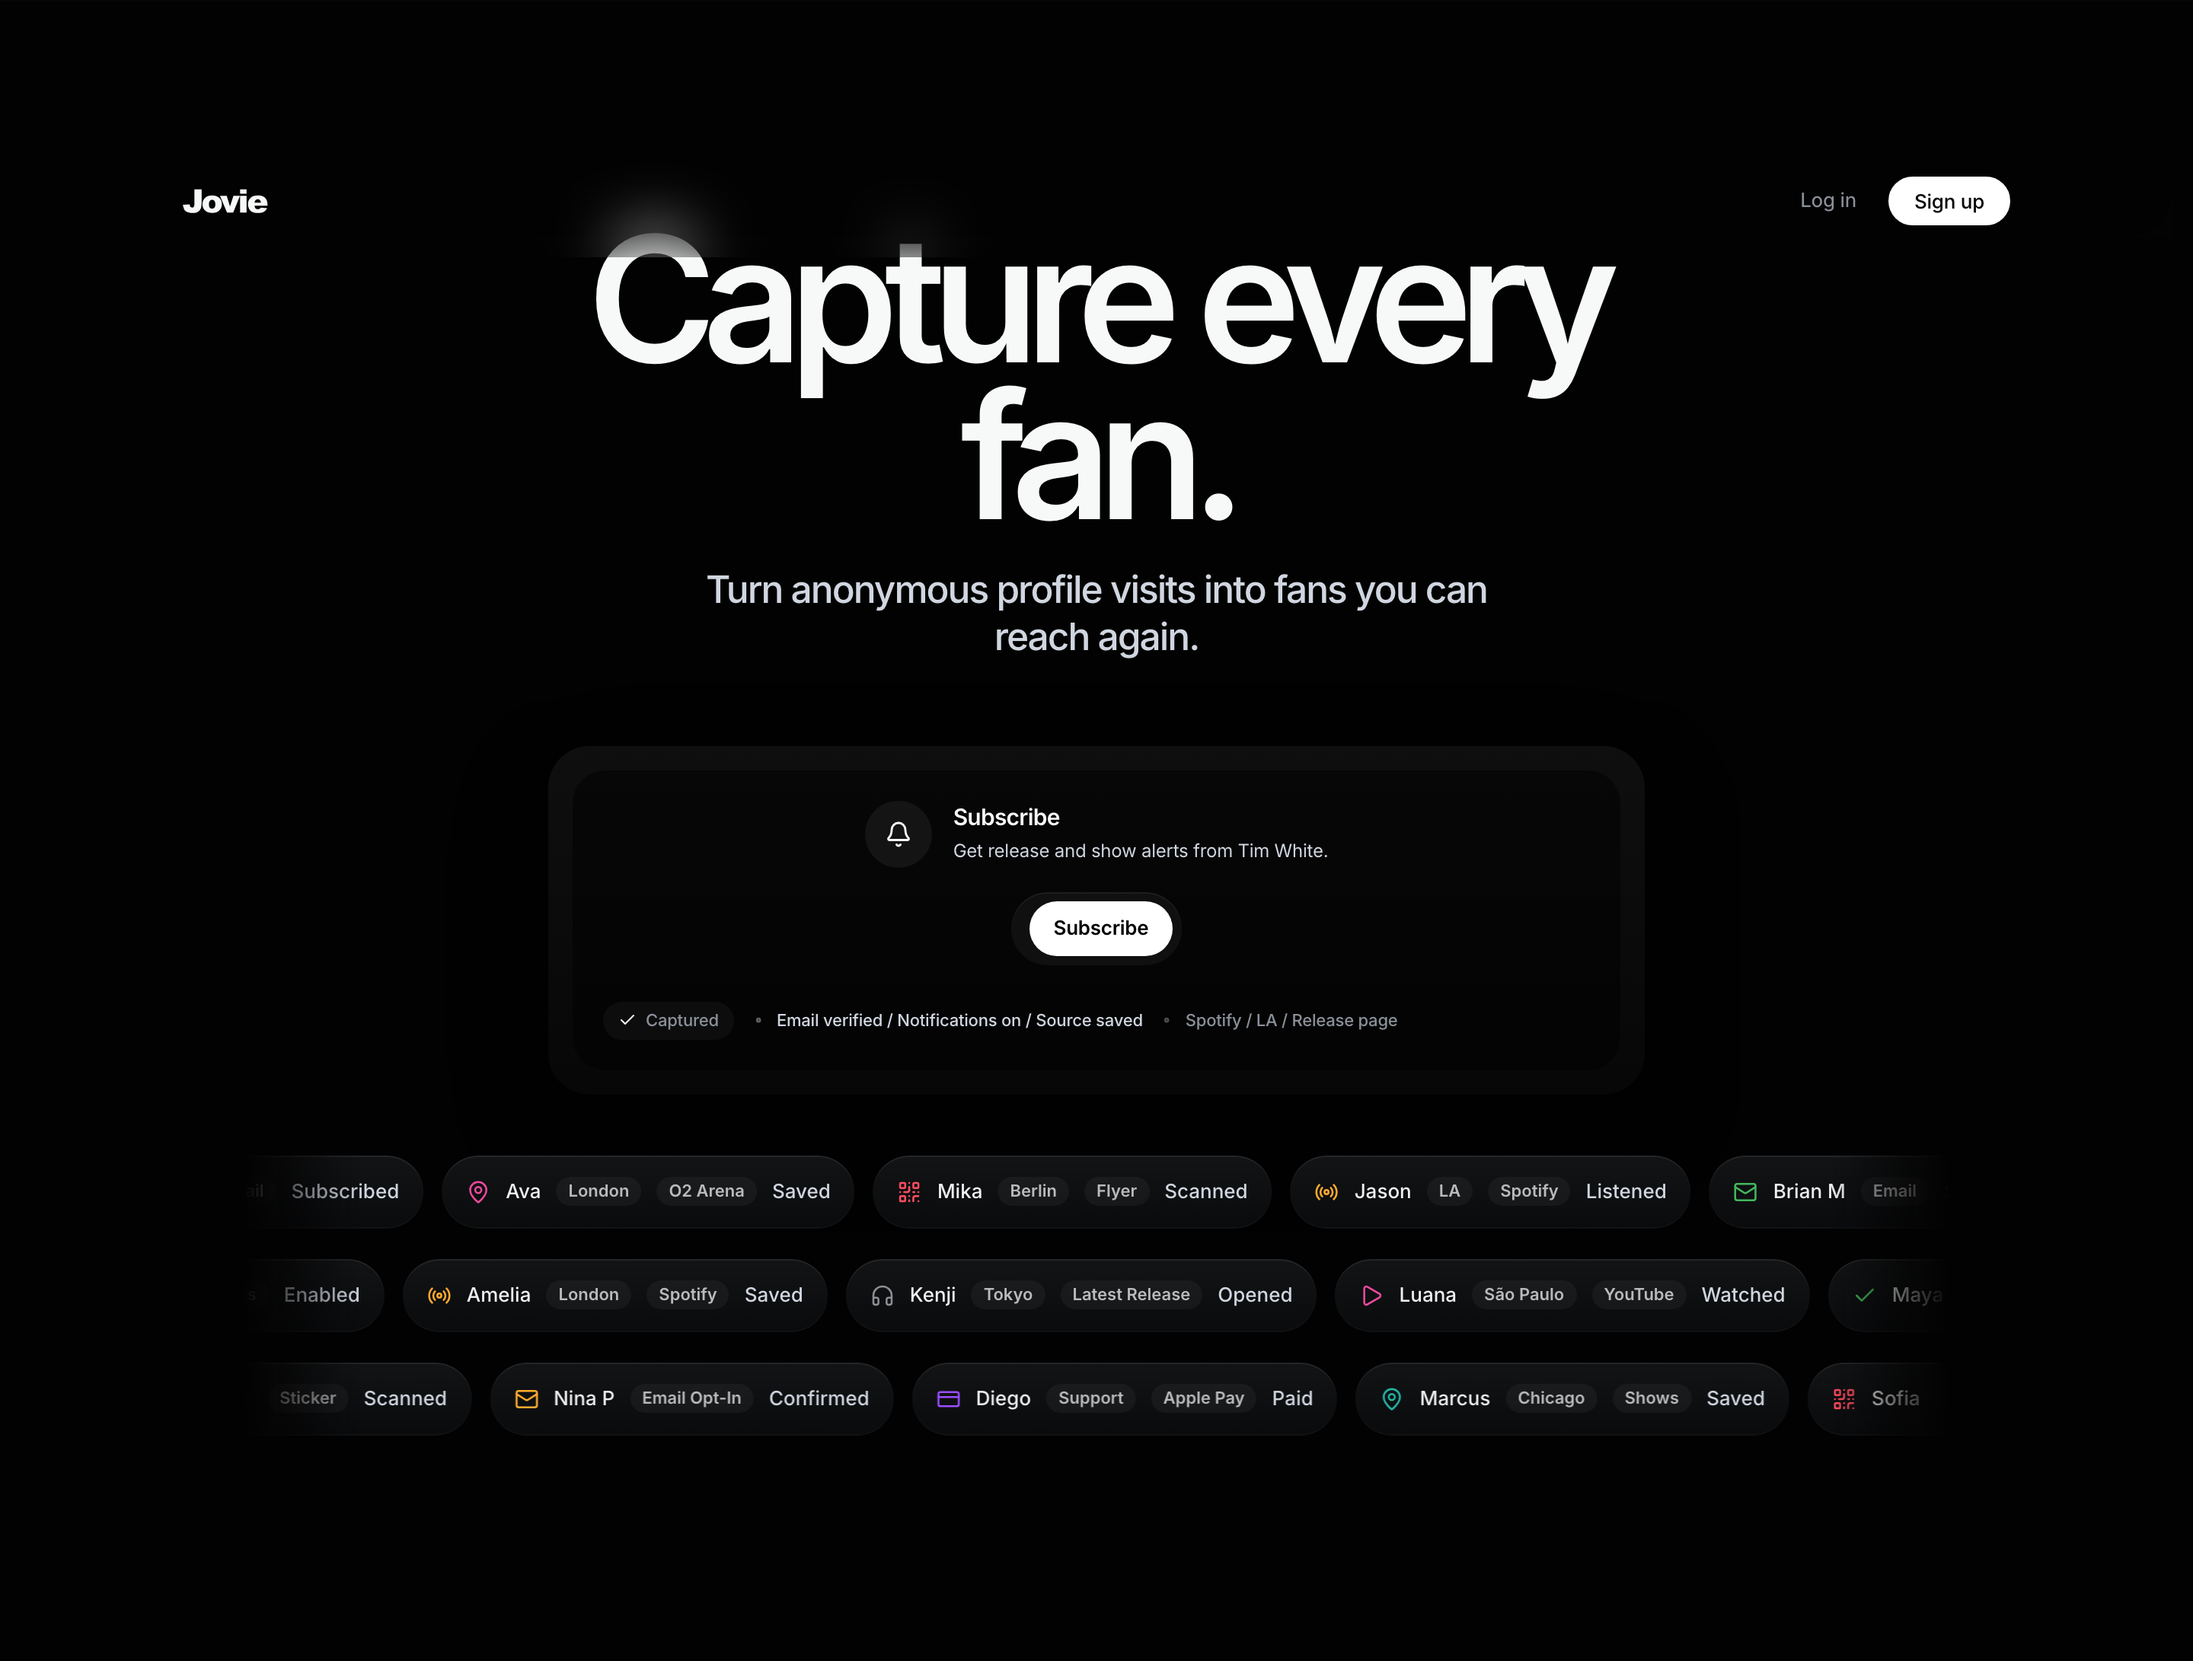
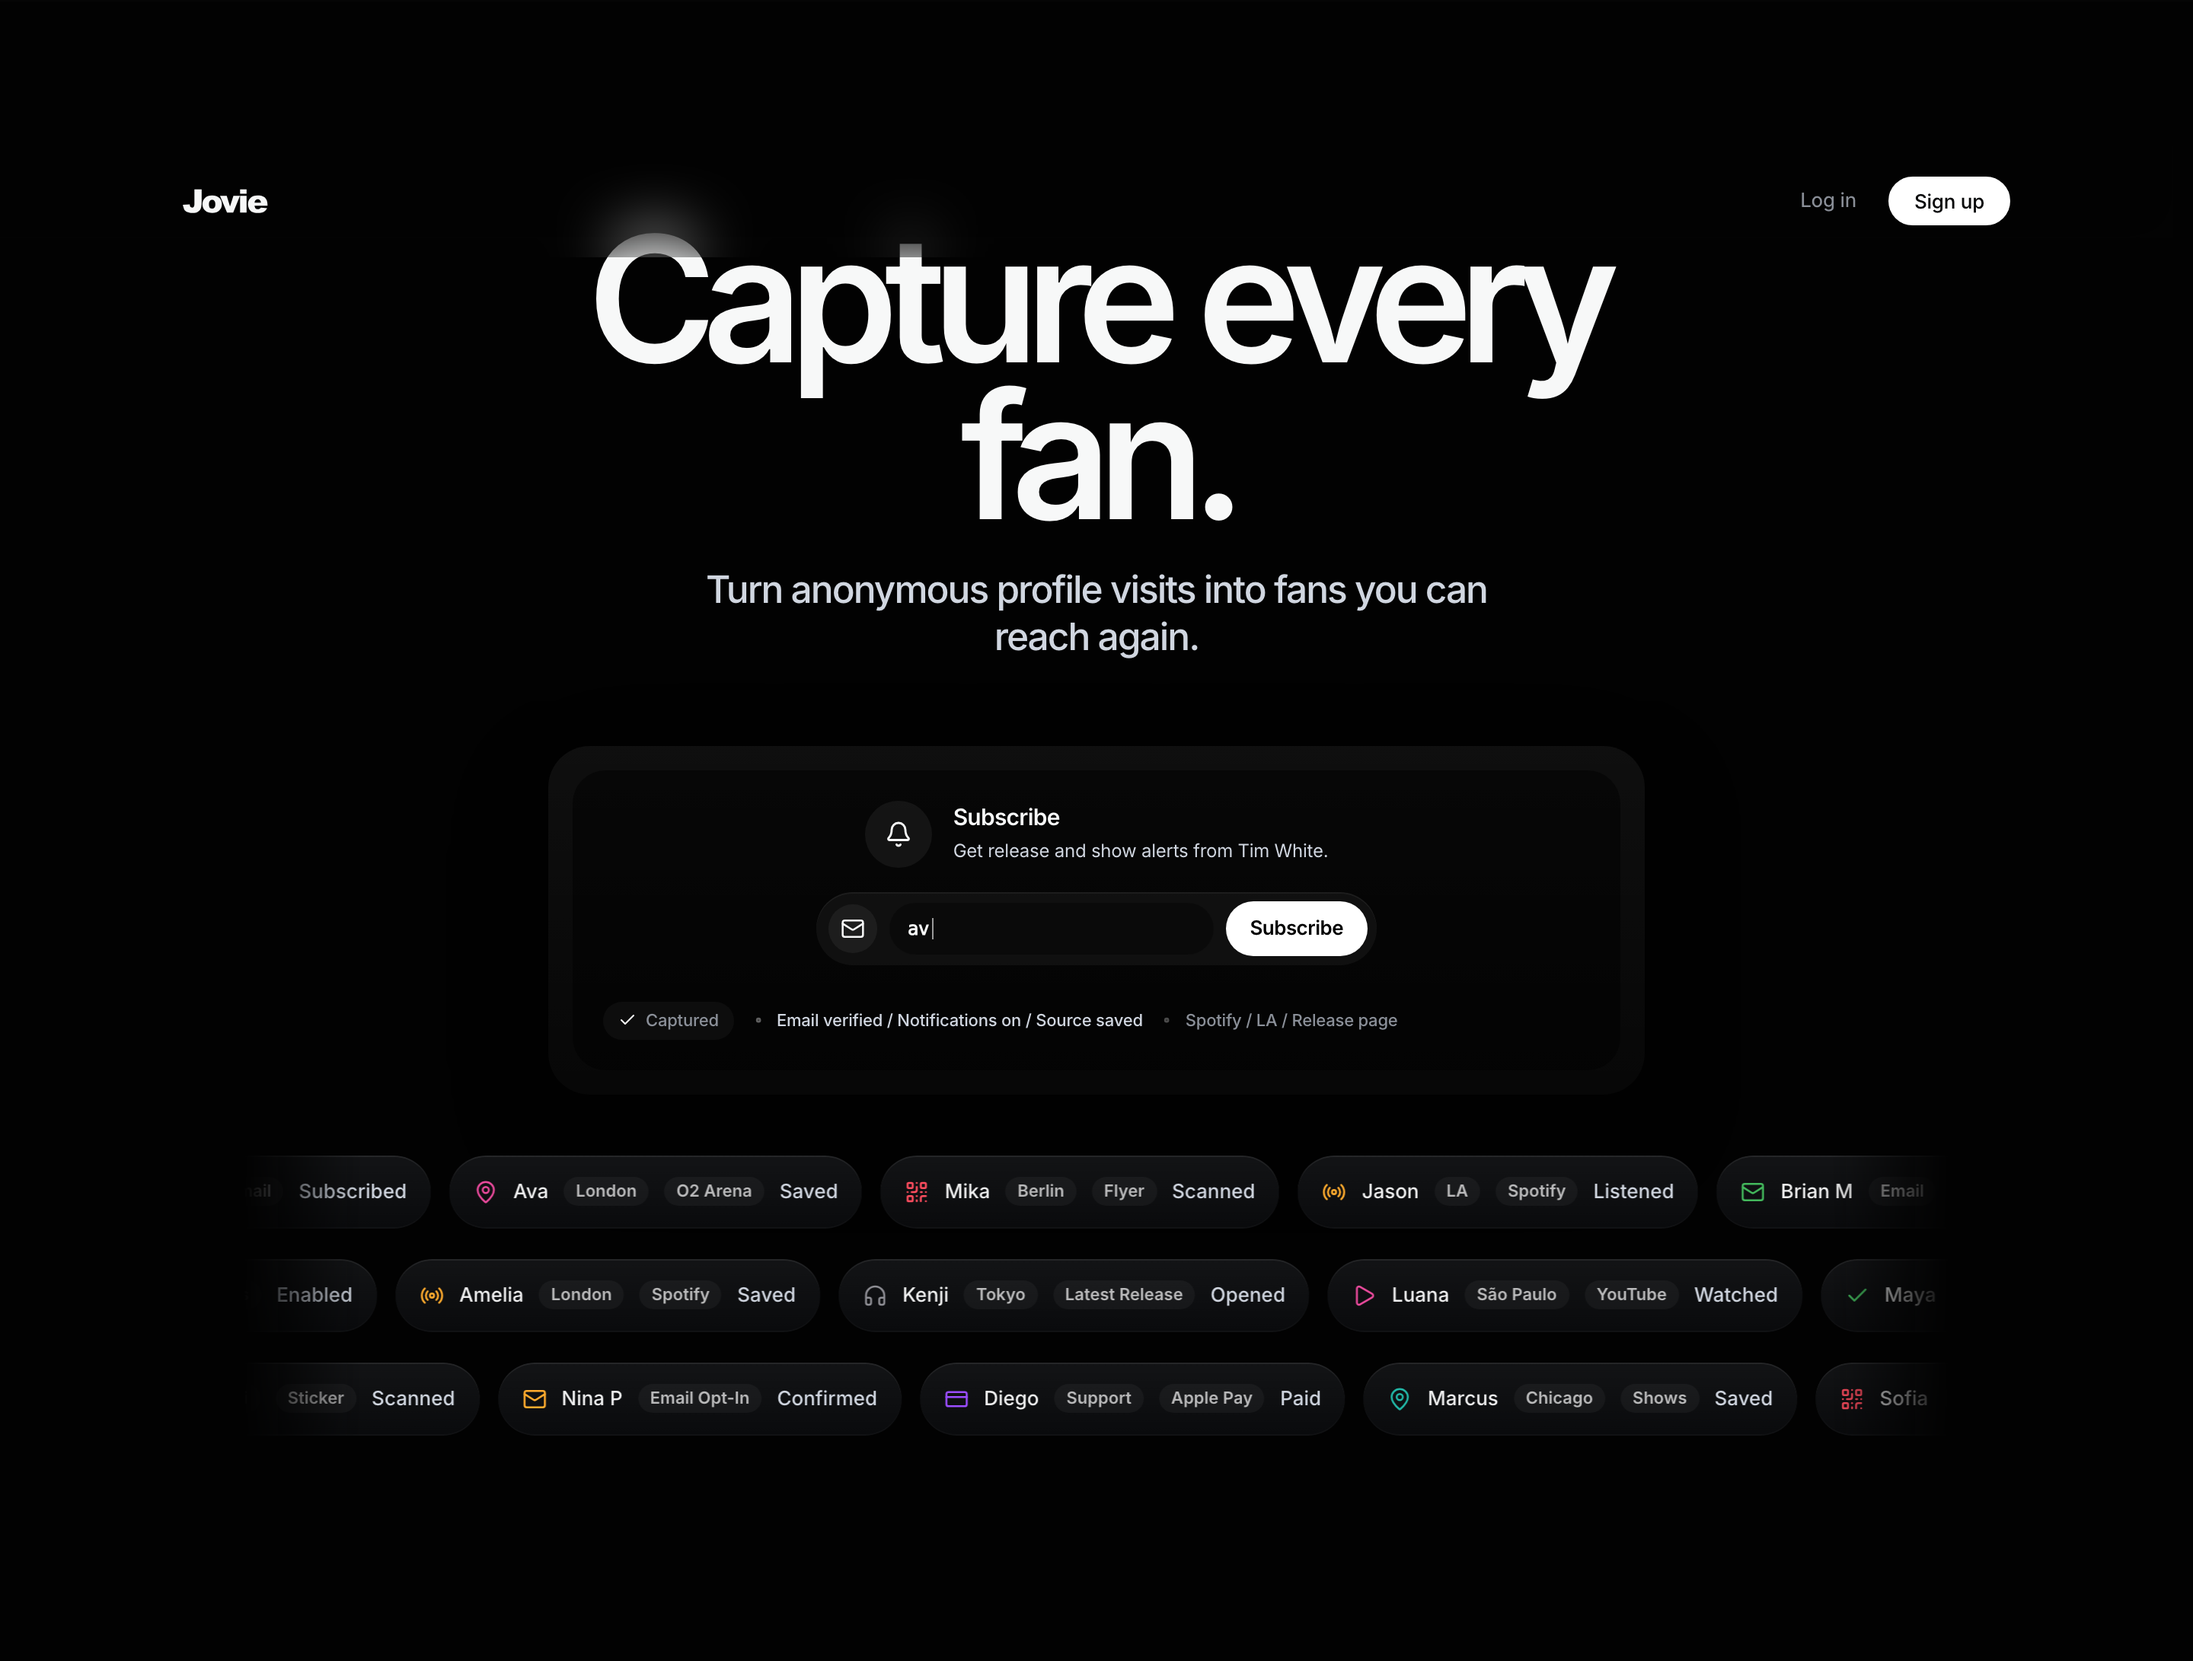
style(marketing): animate artist profile subscribe flow

diff --git a/apps/web/components/marketing/artist-profile/ArtistProfileCaptureSection.tsx b/apps/web/components/marketing/artist-profile/ArtistProfileCaptureSection.tsx
@@ -137,6 +137,8 @@ function AudienceRail({
   );
 }
 
+const DEMO_SUBSCRIBE_EMAIL = 'ava@icloud.com';
+
 export function ArtistProfileCaptureSection({
   capture,
 }: Readonly<ArtistProfileCaptureSectionProps>) {
@@ -201,6 +203,25 @@ export function ArtistProfileCaptureSection({
           animation-play-state: paused;
         }
 
+        .artist-profile-subscribe-flow-input {
+          animation: artist-profile-subscribe-flow-out 5.6s ease-in-out infinite;
+        }
+
+        .artist-profile-subscribe-flow-success {
+          animation: artist-profile-subscribe-flow-in 5.6s ease-in-out infinite;
+        }
+
+        .artist-profile-subscribe-typed {
+          width: 0ch;
+          animation: artist-profile-subscribe-type 5.6s steps(15, end) infinite;
+        }
+
+        .artist-profile-subscribe-caret {
+          animation:
+            artist-profile-subscribe-caret-blink 0.9s steps(1, end) infinite,
+            artist-profile-subscribe-caret-hide 5.6s linear infinite;
+        }
+
         @keyframes artist-profile-audience-drift {
           from {
             transform: translate3d(0, 0, 0);
@@ -211,9 +232,91 @@ export function ArtistProfileCaptureSection({
           }
         }
 
+        @keyframes artist-profile-subscribe-type {
+          0%,
+          10% {
+            width: 0ch;
+          }
+
+          34%,
+          100% {
+            width: 15ch;
+          }
+        }
+
+        @keyframes artist-profile-subscribe-flow-out {
+          0%,
+          38% {
+            opacity: 1;
+            transform: translateY(0);
+          }
+
+          50%,
+          100% {
+            opacity: 0;
+            transform: translateY(-10px);
+          }
+        }
+
+        @keyframes artist-profile-subscribe-flow-in {
+          0%,
+          40% {
+            opacity: 0;
+            transform: translateY(10px);
+          }
+
+          52%,
+          100% {
+            opacity: 1;
+            transform: translateY(0);
+          }
+        }
+
+        @keyframes artist-profile-subscribe-caret-blink {
+          0%,
+          45%,
+          100% {
+            opacity: 1;
+          }
+
+          50% {
+            opacity: 0;
+          }
+        }
+
+        @keyframes artist-profile-subscribe-caret-hide {
+          0%,
+          40% {
+            opacity: 1;
+          }
+
+          50%,
+          100% {
+            opacity: 0;
+          }
+        }
+
         @media (prefers-reduced-motion: reduce) {
-          .artist-profile-audience-rail {
+          .artist-profile-audience-rail,
+          .artist-profile-subscribe-flow-input,
+          .artist-profile-subscribe-flow-success,
+          .artist-profile-subscribe-typed,
+          .artist-profile-subscribe-caret {
             animation: none;
+          }
+
+          .artist-profile-subscribe-flow-input {
+            opacity: 0;
+            transform: translateY(-10px);
+          }
+
+          .artist-profile-subscribe-flow-success {
+            opacity: 1;
+            transform: translateY(0);
+          }
+
+          .artist-profile-subscribe-typed {
+            width: 15ch;
           }
         }
       `}</style>
@@ -244,16 +347,50 @@ export function ArtistProfileCaptureSection({
                   </p>
                 </div>
               </div>
-              <div className='flex shrink-0 items-center gap-2 rounded-full bg-white/[0.045] p-1.5 pl-3 text-left shadow-[inset_0_1px_0_rgba(255,255,255,0.055)]'>
-                <span className='hidden text-[12px] font-medium tracking-[-0.01em] text-tertiary-token sm:inline'>
-                  Email + Push
-                </span>
-                <button
-                  type='button'
-                  className='inline-flex h-9 items-center rounded-full bg-white px-4 text-[13px] font-semibold tracking-[-0.02em] text-black transition-opacity hover:opacity-90 focus-visible:outline-none focus-visible:ring-2 focus-visible:ring-white/40'
+              <div className='relative h-12 w-full max-w-[23rem] shrink-0 sm:h-12'>
+                <div
+                  className='artist-profile-subscribe-flow-input absolute inset-0 flex items-center gap-2 rounded-full bg-white/[0.045] p-1.5 pl-2 text-left shadow-[inset_0_1px_0_rgba(255,255,255,0.055)]'
+                  aria-hidden='true'
                 >
-                  {capture.action.ctaLabel}
-                </button>
+                  <span className='flex h-8 w-8 shrink-0 items-center justify-center rounded-full bg-white/[0.055] text-primary-token'>
+                    <Mail className='h-4 w-4' strokeWidth={1.9} />
+                  </span>
+                  <span className='flex min-w-0 flex-1 items-center rounded-full bg-black/28 px-3 py-2'>
+                    <span className='artist-profile-subscribe-typed inline-block overflow-hidden whitespace-nowrap font-mono text-[12px] font-medium tracking-[-0.02em] text-primary-token'>
+                      {DEMO_SUBSCRIBE_EMAIL}
+                    </span>
+                    <span
+                      className='artist-profile-subscribe-caret ml-0.5 inline-block h-3.5 w-px bg-white/58'
+                      aria-hidden='true'
+                    />
+                  </span>
+                  <span className='inline-flex h-9 shrink-0 items-center rounded-full bg-white px-4 text-[13px] font-semibold tracking-[-0.02em] text-black'>
+                    {capture.action.ctaLabel}
+                  </span>
+                </div>
+                <div
+                  className='artist-profile-subscribe-flow-success absolute inset-0 flex items-center gap-2 rounded-full bg-white/[0.05] p-1.5 pl-2 text-left shadow-[inset_0_1px_0_rgba(255,255,255,0.055)]'
+                  aria-hidden='true'
+                >
+                  <span className='flex h-8 w-8 shrink-0 items-center justify-center rounded-full bg-white text-black'>
+                    <Check className='h-4 w-4' strokeWidth={2.1} />
+                  </span>
+                  <span className='min-w-0 flex-1'>
+                    <span className='block text-[12px] font-semibold tracking-[-0.02em] text-primary-token'>
+                      Subscribed
+                    </span>
+                    <span className='block text-[11px] tracking-[-0.01em] text-secondary-token'>
+                      Notifications on
+                    </span>
+                  </span>
+                  <span className='inline-flex h-9 shrink-0 items-center rounded-full bg-white px-3.5 text-[12px] font-semibold tracking-[-0.02em] text-black'>
+                    Live
+                  </span>
+                </div>
+                <p className='sr-only'>
+                  A demo email is typed into the subscribe input, then the UI
+                  switches to a subscribed state with notifications enabled.
+                </p>
               </div>
             </div>
             <div className='mt-4 flex flex-wrap items-center gap-x-2 gap-y-2 pt-2 text-[11px] font-medium tracking-[-0.01em] text-tertiary-token'>

diff --git a/apps/web/tests/unit/app/artist-profiles-page.test.tsx b/apps/web/tests/unit/app/artist-profiles-page.test.tsx
@@ -214,9 +214,11 @@ describe('ArtistProfilesPage', () => {
       screen.getByTestId('artist-profile-section-capture')
     );
     expect(
-      captureSection.getByRole('button', { name: 'Subscribe' })
+      captureSection.getByText('Get release and show alerts from Tim White.')
     ).toBeInTheDocument();
-    expect(captureSection.getByText('Email + Push')).toBeInTheDocument();
+    expect(captureSection.getAllByText('Subscribe').length).toBeGreaterThan(0);
+    expect(captureSection.getByText('ava@icloud.com')).toBeInTheDocument();
+    expect(captureSection.getAllByText('Subscribed').length).toBeGreaterThan(0);
     expect(
       captureSection.getByText('Spotify / LA / Release page')
     ).toBeInTheDocument();
